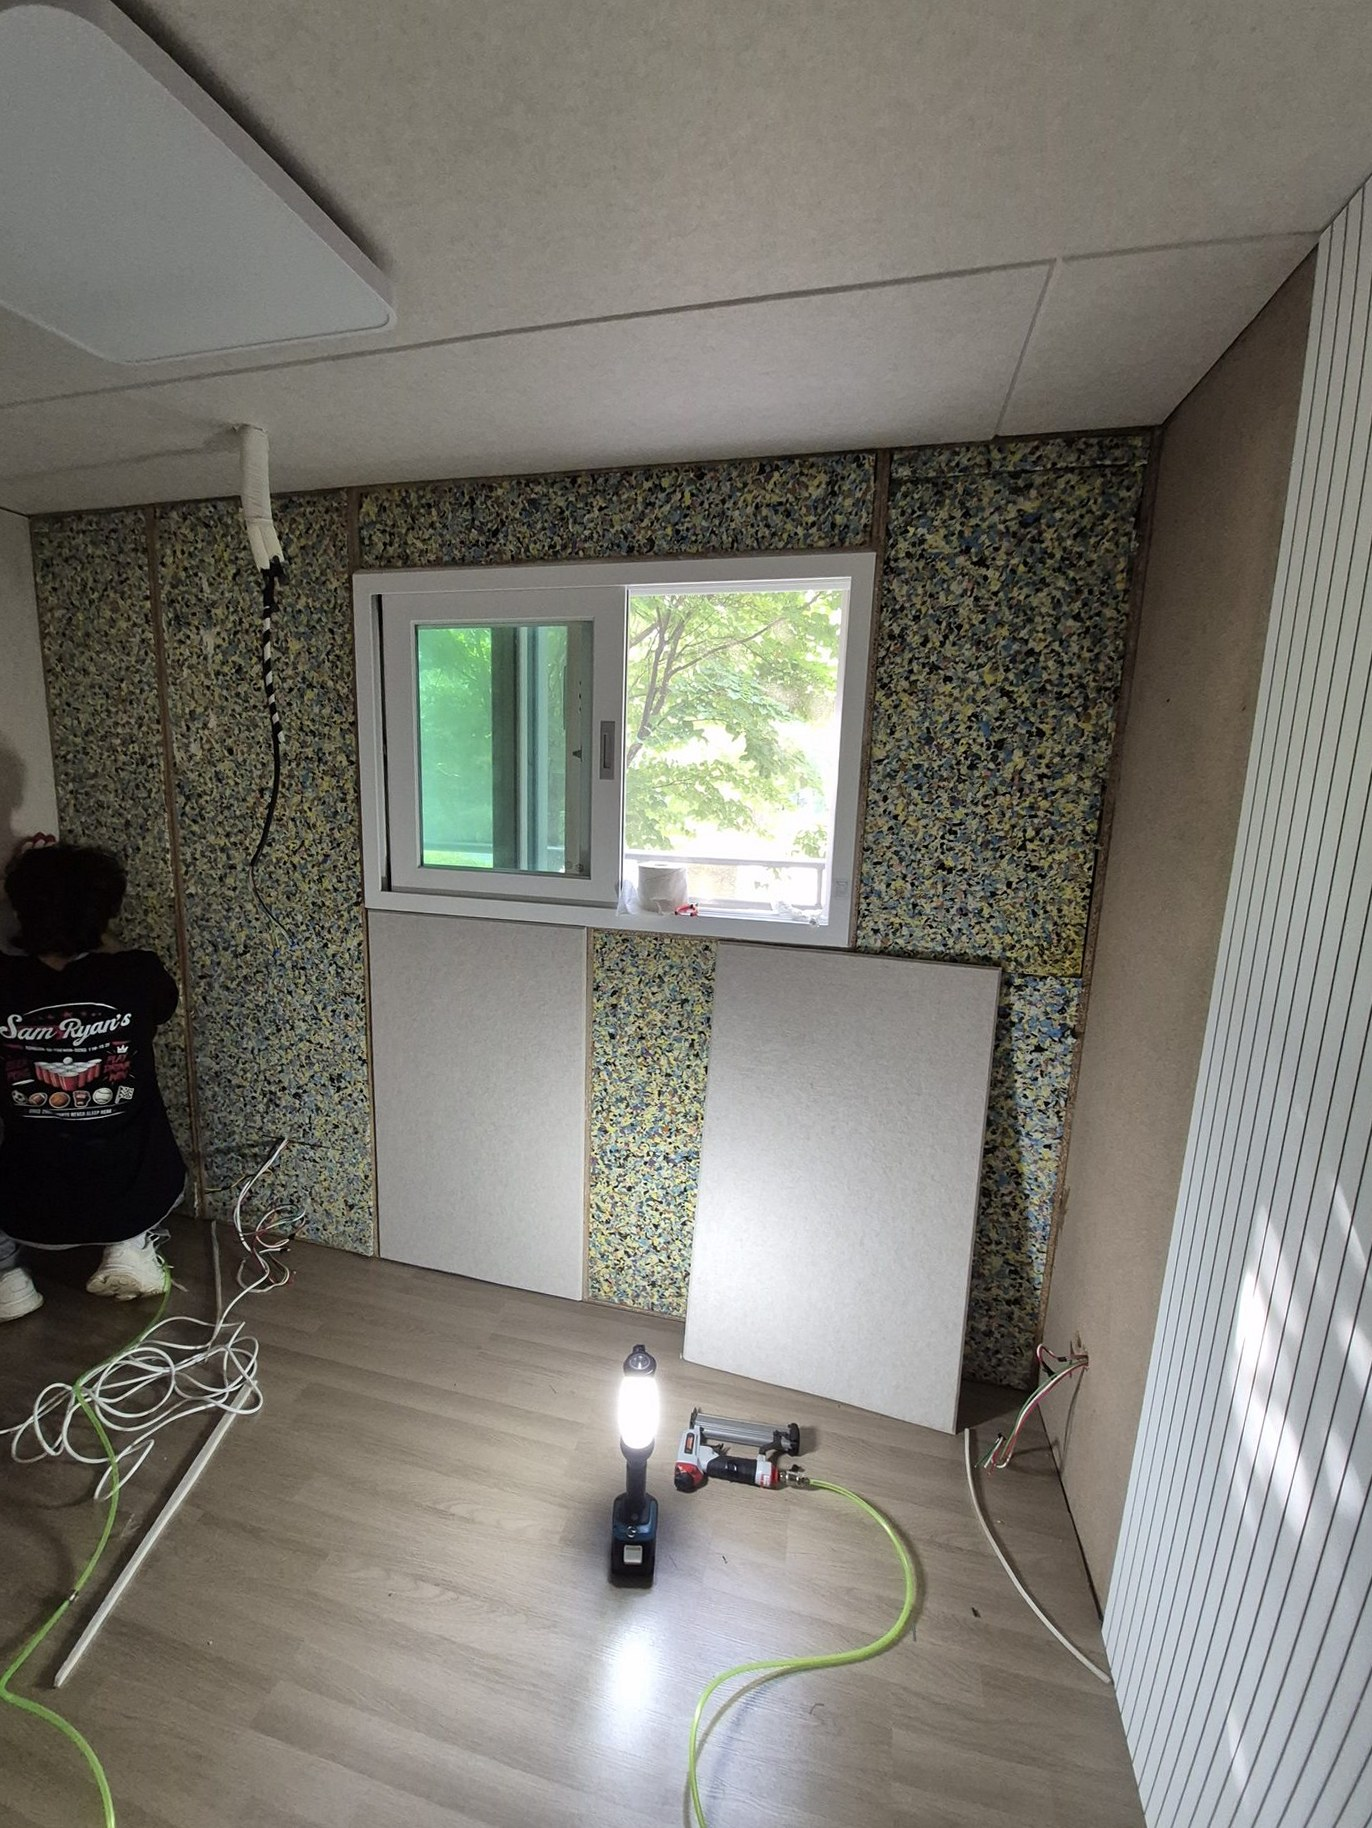
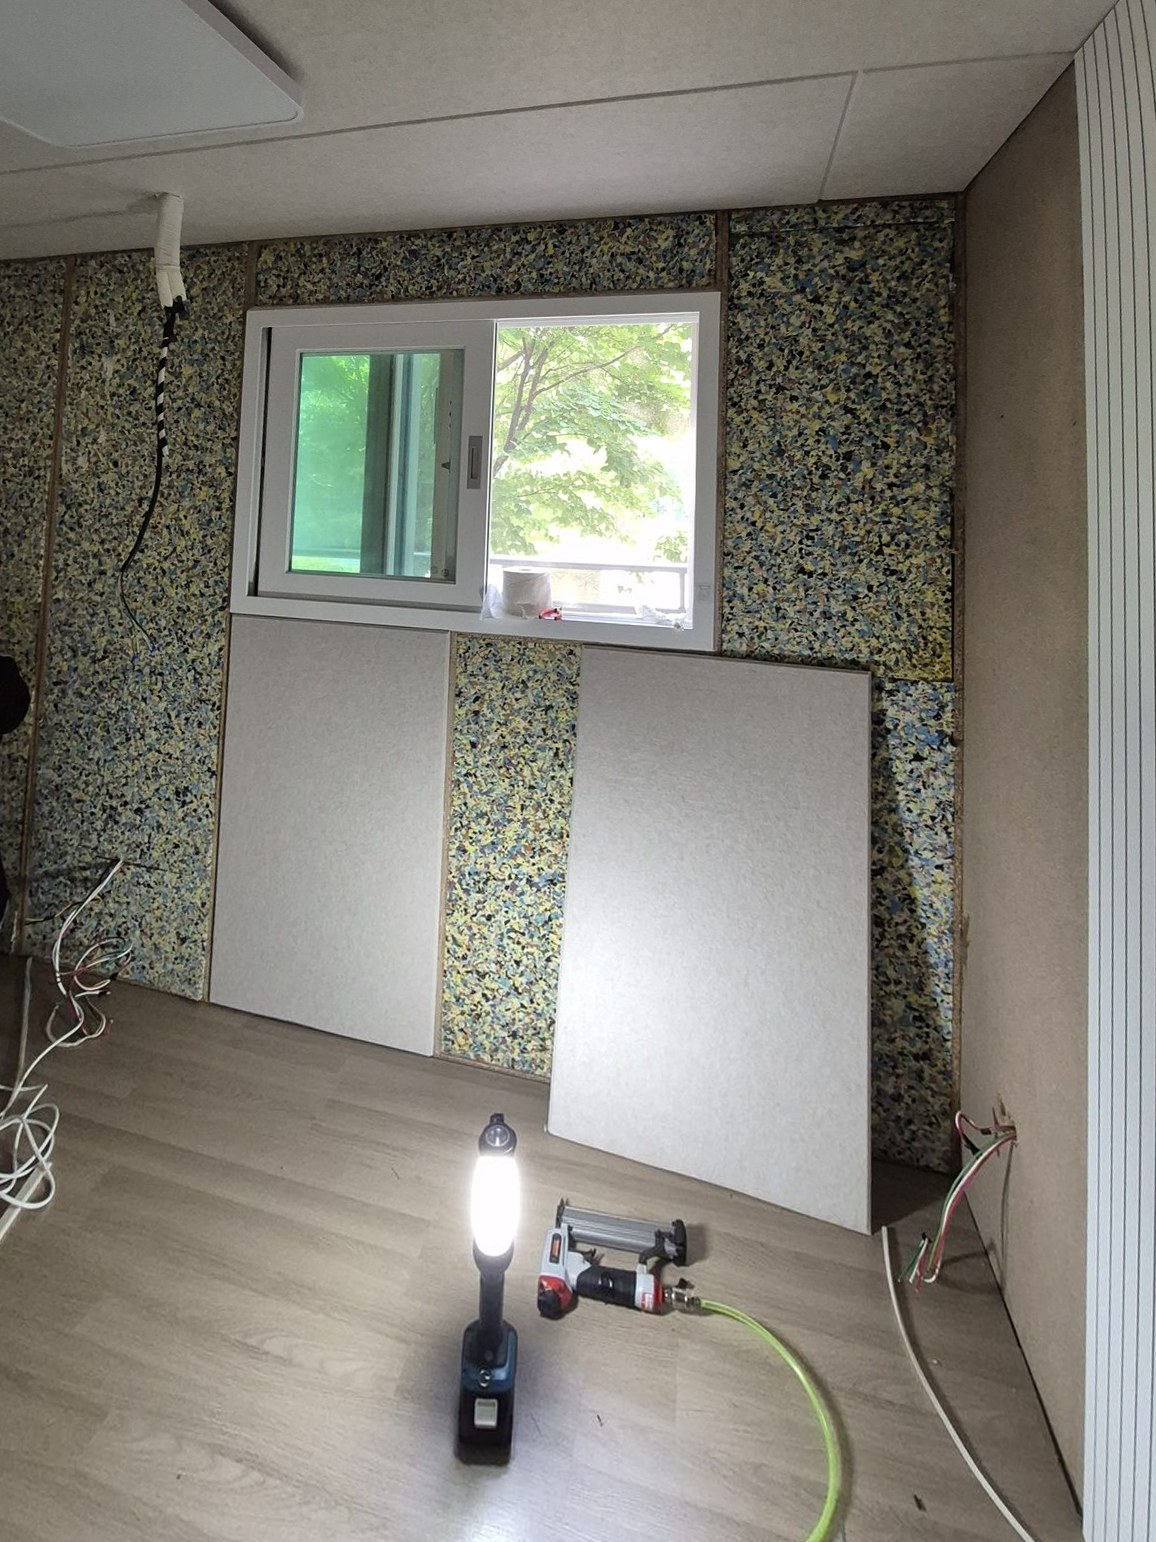
사진 원근 맞추기: 세로선이 모두 평행하게 (원본에서 다시, 빈 테두리만 자름, 색 보정 없음)
- straighten_photos.py를 회전만 하던 방식에서 원근(키스톤) 보정 방식으로 교체
- 자동 줄이기가 이미 줄인 사진을 거듭 압축하지 않게 기준을 1.5MB로

Claude-Session: https://claude.ai/code/session_01SMxL5N6ASRei7csmEoELRw

diff --git a/.github/scripts/straighten_photos.py b/.github/scripts/straighten_photos.py
@@ -1,40 +1,67 @@
-# 사진 가운데 쪽 세로선(벽 모서리·문틀·패널 줄눈)을 찾아 기울기를 재고, 똑바로 세운 뒤 빈 모서리만 잘라낸다.
-# 색·밝기 보정은 하지 않는다. 0.8° 미만은 그대로 둔다.
-# 사용: pip install opencv-python-headless pillow && python3 .github/scripts/straighten_photos.py photos/case1/*.jpg
+# 사진의 세로선(벽 모서리·문틀·패널 줄눈)이 모두 평행하게 서도록 원근을 맞추고, 빈 테두리만 잘라낸다.
+# 기울기(돌아감)와 위아래로 좁아지는 원근을 함께 바로잡는다. 색·밝기 보정은 하지 않는다.
+# 세로선을 못 찾는 사진(위에서 내려다본 사진 등)은 그대로 둔다.
+# 사용: pip install opencv-python-headless && python3 .github/scripts/straighten_photos.py photos/case1/*.jpg
 import sys, math
 import cv2, numpy as np
-from PIL import Image, ImageOps
 
-def tilt(path):
-    im = cv2.imread(path); h, w = im.shape[:2]; s = 1000/max(h, w)
-    g = cv2.cvtColor(cv2.resize(im, None, fx=s, fy=s), cv2.COLOR_BGR2GRAY)
+def vertical_segments(g):
     L = cv2.createLineSegmentDetector(0).detect(g)[0]
-    if L is None: return None
-    H, W = g.shape; angs = []; ws = []
+    if L is None: return np.zeros((0, 4))
+    out = []
     for x1, y1, x2, y2 in L.reshape(-1, 4):
-        dx, dy = x2-x1, y2-y1; ln = math.hypot(dx, dy)
-        if ln < H*0.08: continue
-        a = math.degrees(math.atan2(dx, dy))
+        if math.hypot(x2-x1, y2-y1) < max(g.shape)*0.07: continue
+        a = math.degrees(math.atan2(x2-x1, y2-y1))
         if a > 90: a -= 180
         if a < -90: a += 180
-        if abs(a) > 12: continue
-        if abs(((x1+x2)/2 - W/2)/(W/2)) > 0.4: continue   # 광각 가장자리는 원근으로 원래 기운다
-        angs.append(a); ws.append(ln)
-    if len(angs) < 4: return None
-    angs = np.array(angs); ws = np.array(ws); o = np.argsort(angs); c = np.cumsum(ws[o])
-    return float(angs[o][np.searchsorted(c, c[-1]/2)])
+        if abs(a) < 25: out.append((x1, y1, x2, y2))
+    return np.array(out)
 
-def rot_crop(im, deg):
-    w, h = im.size; r = im.rotate(deg, resample=Image.BICUBIC)
-    t = math.radians(abs(deg)); c, s = math.cos(t), math.sin(t)
-    k = min(w/(w*c + h*s), h/(w*s + h*c))
-    nw, nh = w*k, h*k; x0, y0 = (w-nw)/2, (h-nh)/2
-    return r.crop((round(x0), round(y0), round(x0+nw), round(y0+nh)))
+def vanishing_point(V):
+    # 세로선들이 모이는 점(동차좌표) — 길이 가중 최소제곱
+    A = []
+    for x1, y1, x2, y2 in V:
+        l = np.cross([x1, y1, 1.0], [x2, y2, 1.0])
+        A.append(l/np.hypot(l[0], l[1])*math.hypot(x2-x1, y2-y1))
+    return np.linalg.svd(np.array(A))[2][-1]
+
+def keystone(vp, w, h):
+    # 소실점을 세로축 위로 돌린 뒤 무한대로 보내 세로선을 평행하게 만든다 (사진 가운데 기준)
+    T = np.array([[1, 0, -w/2], [0, 1, -h/2], [0, 0, 1]], float)
+    v = T @ vp
+    vx, vy = (v[0]/v[2], v[1]/v[2]) if abs(v[2]) > 1e-9 else (v[0]*1e9, v[1]*1e9)
+    ang = math.atan2(vx, vy) if vy >= 0 else math.atan2(-vx, -vy)
+    c, s = math.cos(ang), math.sin(ang)
+    R = np.array([[c, -s, 0], [s, c, 0], [0, 0, 1]], float)
+    p = R @ np.array([vx, vy, 1.0]); d = p[1]/p[2]
+    P = np.eye(3)
+    if abs(d) > 1e-6: P[2, 1] = -1/d
+    return np.linalg.inv(T) @ P @ R @ T
+
+def largest_crop(mask, w, h):
+    # 빈 테두리가 안 들어가는, 원래 비율 그대로의 가장 큰 사각형
+    best = None
+    for cy in np.linspace(0.40, 0.60, 11):
+        for cx in np.linspace(0.44, 0.56, 7):
+            lo, hi = 0.2, 1.0
+            for _ in range(20):
+                m = (lo+hi)/2; ww, hh = w*m, h*m
+                x0, y0 = int(cx*w - ww/2), int(cy*h - hh/2); x1, y1 = int(x0+ww), int(y0+hh)
+                ok = x0 >= 0 and y0 >= 0 and x1 <= w and y1 <= h and mask[y0:y1:4, x0:x1:4].min() == 255
+                lo, hi = (m, hi) if ok else (lo, m)
+            if best is None or lo > best[0]: best = (lo, cx, cy)
+    m, cx, cy = best; ww, hh = int(w*m), int(h*m)
+    return int(cx*w - ww/2), int(cy*h - hh/2), ww, hh
 
 for f in sys.argv[1:]:
-    a = tilt(f)
-    if a is None or abs(a) < 0.8:
-        print('그대로:', f, a); continue
-    im = ImageOps.exif_transpose(Image.open(f)).convert('RGB')
-    rot_crop(im, -a).save(f, 'JPEG', quality=88, optimize=True, progressive=True)
-    print('바로 세움 %.1f°:' % a, f)
+    im = cv2.imread(f); h, w = im.shape[:2]
+    V = vertical_segments(cv2.cvtColor(im, cv2.COLOR_BGR2GRAY))
+    if len(V) < 6:
+        print('그대로(세로선 부족):', f); continue
+    H = keystone(vanishing_point(V), w, h)
+    out = cv2.warpPerspective(im, H, (w, h), flags=cv2.INTER_CUBIC)
+    mask = cv2.warpPerspective(np.full((h, w), 255, np.uint8), H, (w, h), flags=cv2.INTER_NEAREST)
+    mask = cv2.erode(mask, np.ones((7, 7), np.uint8))
+    x0, y0, ww, hh = largest_crop(mask, w, h)
+    cv2.imwrite(f, out[y0:y0+hh, x0:x0+ww], [cv2.IMWRITE_JPEG_QUALITY, 88, cv2.IMWRITE_JPEG_PROGRESSIVE, 1])
+    print('바로 세움 (%.0f%% 남김):' % (ww/w*100), f)

diff --git a/.github/scripts/shrink_photos.py b/.github/scripts/shrink_photos.py
@@ -3,7 +3,7 @@ import glob, os
 from PIL import Image, ImageOps
 
 MAX = 1920
-LIMIT = 600 * 1024  # 600KB 넘으면 다시 저장
+LIMIT = 1500 * 1024  # 크기가 1920 이하인데도 1.5MB 넘으면 다시 저장 (이미 줄인 사진을 거듭 압축하지 않게)
 
 for f in glob.glob('photos/**/*', recursive=True):
     ext = os.path.splitext(f)[1].lower()

diff --git a/CLAUDE.md b/CLAUDE.md
@@ -16,4 +16,4 @@
 - `photos/[칸이름]/` 폴더에 아무 이름으로 올리면 자동으로 뜸 (hero, single, supersingle, double, case1~6).
 - 큰 사진은 `.github/workflows/shrink-photos.yml`이 main에 올라올 때 자동으로 긴 변 1920px로 줄임.
   사진을 직접 넣을 때도 `python3 .github/scripts/shrink_photos.py`로 줄여서 올릴 것.
-- 사진이 기울어 보이면 `python3 .github/scripts/straighten_photos.py photos/폴더/*.jpg` (세로선 기준으로 바로 세우고 빈 모서리만 자름, 색 보정 없음). 위에서 내려다본 사진처럼 세로선이 없는 사진은 결과를 눈으로 확인할 것.
+- 사진이 기울거나 벽이 휘청여 보이면 `pip install opencv-python-headless && python3 .github/scripts/straighten_photos.py photos/폴더/*.jpg` (세로선이 모두 평행하게 원근을 맞추고 빈 테두리만 자름, 색 보정 없음). 렌즈 휨 펴기는 폰이 이미 해 둬서 하면 오히려 휨 — 하지 말 것. 결과는 눈으로 확인할 것.
